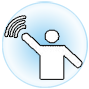
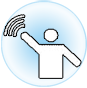
first tobi - next skin

diff --git a/src/com/window/erdeedre/_main.java b/src/com/window/erdeedre/_main.java
@@ -11,6 +11,6 @@ import com.window.erdeedre.skins.SkinChooser;
 public class _main {
 	
 	public static void main(String[] args) {
-		new SkinChooser(1, true);
+		new SkinChooser(2, true);
     }
 }
